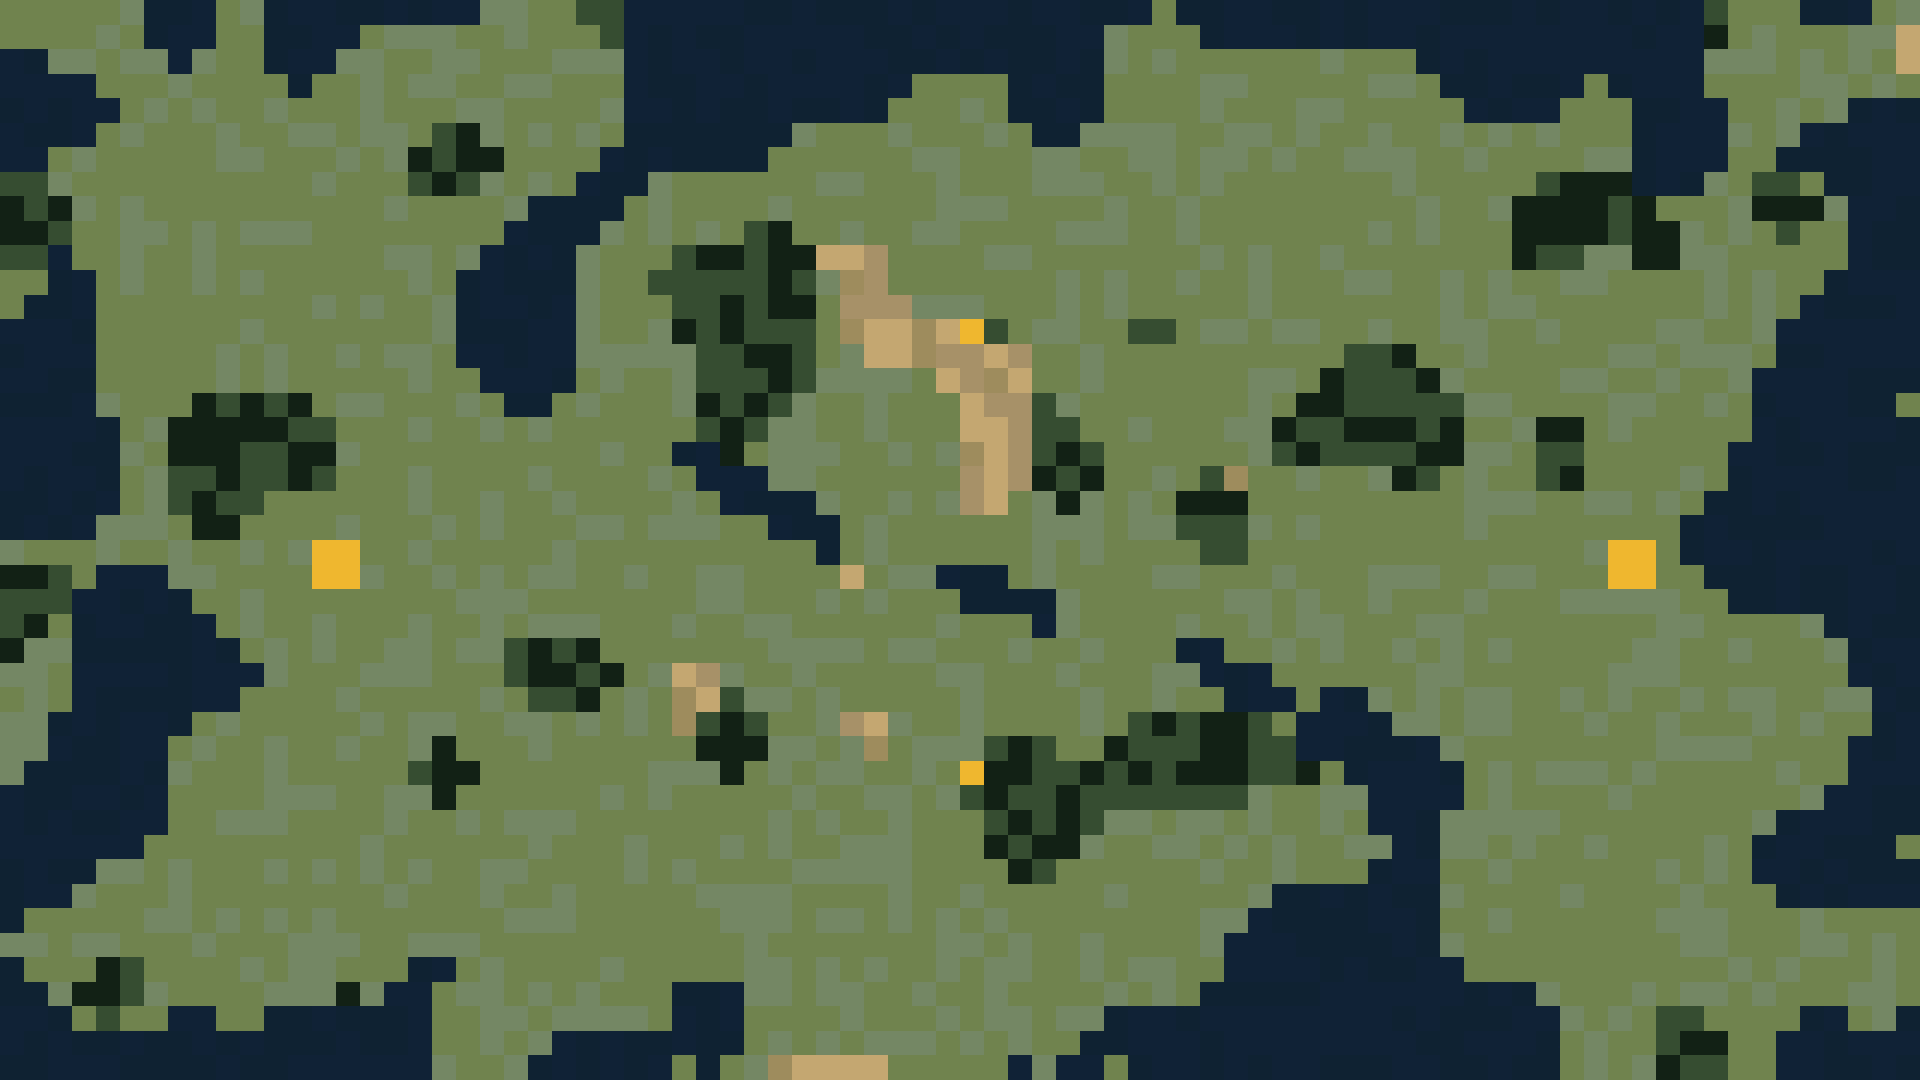
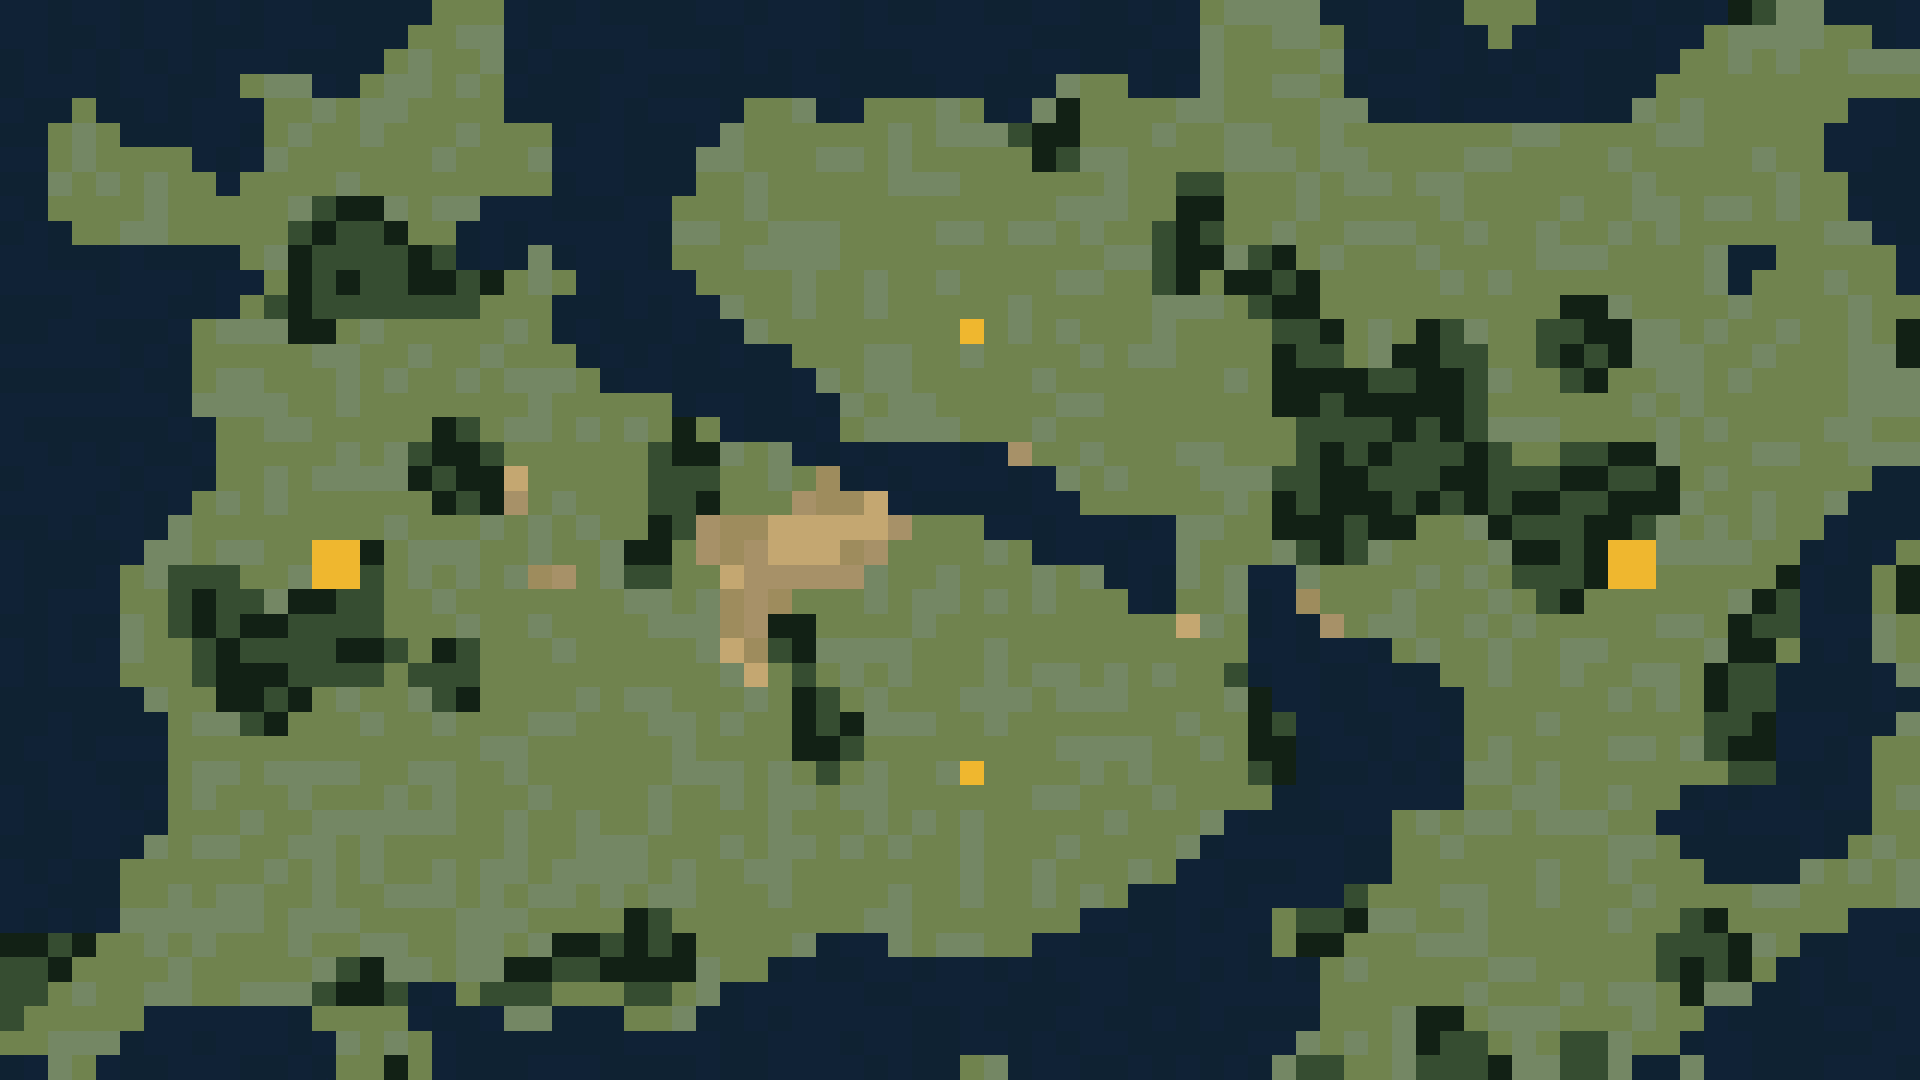
add new deafult map

diff --git a/shared/src/terrainGrid.ts b/shared/src/terrainGrid.ts
@@ -465,50 +465,50 @@ const TERRAIN_CODE_GRID_BY_MAP_ID: Record<string, string> = {
     'gffgfgfffffffffffffffffggggggggggggggggggggggggggggggggggggggggggggggggggggggggg' +
     'ggggghhgghgggghggggggggggggggggggggggggggggggggggggggggggggggggggggggggggggggggg',
   'random-frontier-01':
-    'ggggggwwwggwwwwwwwwwggggffwwwwwwwwwwwwwwwwwwwwwwgwwwwwwwwwwwwwwwwwwwwwwfgggwwwgg' +
-    'ggggggwwwggwwwwggggggggggfwwwwwwwwwwwwwwwwwwwwggggwwwwwwwwwwwwwwwwwwwwwfgggggggh' +
-    'wwgggggwgggwwwggggggggggggwwwwwwwwwwwwwwwwwwwwgggggggggggggwwwwwwwwwwwwggggggggh' +
-    'wwwwggggggggwgggggggggggggwwwwwwwwwwwwggggwwwwggggggggggggggwwwwwwgwwwwggggggggg' +
-    'wwwwwgggggggggggggggggggggwwwwwwwwwwwgggggwwwwgggggggggggggggwwwwgggwwwwgggggwww' +
-    'wwwwggggggggggggggffggggggwwwwwwwggggggggggwwgggggggggggggggggggggggwwwwgggwwwww' +
-    'wwgggggggggggggggffffggggwwwwwwwggggggggggggggggggggggggggggggggggggwwwwggwwwwww' +
-    'ffgggggggggggggggfffggggwwwgggggggggggggggggggggggggggggggggggggffffwwwggffgwwww' +
-    'fffgggggggggggggggggggwwwwgggggggggggggggggggggggggggggggggggggffffffggggfffgwww' +
-    'fffggggggggggggggggggwwwwggggggffggggggggggggggggggggggggggggggfffffffggggfggwww' +
-    'ffwgggggggggggggggggwwwwggggffffffhhhggggggggggggggggggggggggggfffggffgggggggwww' +
-    'ggwwgggggggggggggggwwwwwgggfffffffghhgggggggggggggggggggggggggggggggggggggggwwww' +
-    'gwwwgggggggggggggggwwwwwggggffffffghhhgggggggggggggggggggggggggggggggggggggwwwww' +
-    'wwwwgggggggggggggggwwwwwggggffffffghhhhhhfgggggffgggggggggggggggggggggggggwwwwww' +
-    'wwwwgggggggggggggggwwwwwgggggfffffgghhhhhhhgggggggggggggfffgggggggggggggggwwwwww' +
-    'wwwwggggggggggggggggwwwwgggggfffffggggghhhhggggggggggggfffffgggggggggggggwwwwwww' +
-    'wwwwggggfffffggggggggwwggggggffffggggggghhhfggggggggggfffffffggggggggggggwwwwwwg' +
-    'wwwwwggfffffffgggggggggggggggfffgggggggghhhffggggggggffffffffgggffgggggggwwwwwww' +
-    'wwwwwggfffffffggggggggggggggwwfggggggggghhhfffgggggggffffffffgggffggggggwwwwwwww' +
-    'wwwwwggfffffffgggggggggggggggwwwgggggggghhhfffggggfhggggggffggggffggggggwwwwwwww' +
-    'wwwwwggffffgggggggggggggggggggwwwwgggggghhggfggggfffgggggggggggggggggggwwwwwwwww' +
-    'wwwwggggffggggggggggggggggggggggwwwggggggggggggggfffggggggggggggggggggwwwwwwwwww' +
-    'ggggggggggggghhgggggggggggggggggggwgggggggggggggggffggggggggggggggghhgwwwwwwwwww' +
-    'fffgwwwgggggghhgggggggggggggggggggghgggwwwggggggggggggggggggggggggghhggwwwwwwwww' +
-    'fffwwwwwggggggggggggggggggggggggggggggggwwwwggggggggggggggggggggggggggggwwwwwwww' +
-    'ffgwwwwwwggggggggggggggggggggggggggggggggggwggggggggggggggggggggggggggggggggwwww' +
-    'fggwwwwwwwgggggggggggffffggggggggggggggggggggggggwwggggggggggggggggggggggggggwww' +
-    'gggwwwwwwwwggggggggggfffffgghhggggggggggggggggggggwwwggggggggggggggggggggggggwww' +
-    'gggwwwwwwwggggggggggggfffggghhfggggggggggggggggggggwwwgwwgggggggggggggggggggggww' +
-    'ggwwwwwwgggggggggggggggggggghfffggghhggggggggggffffffgwwwwggggggggggggggggggggww' +
-    'ggwwwwwgggggggggggfggggggggggfffgggghggggfffggffffffffwwwwwwgggggggggggggggggwww' +
-    'gwwwwwwggggggggggfffggggggggggfggggggggghffffffffffffffgwwwwwggggggggggggggggwww' +
-    'wwwwwwwgggggggggggfgggggggggggggggggggggffffffffffffgggggwwwwgggggggggggggggwwww' +
-    'wwwwwwwggggggggggggggggggggggggggggggggggfffffgggggggggggwwwggggggggggggggwwwwww' +
-    'wwwwwwgggggggggggggggggggggggggggggggggggffffgggggggggggggwwgggggggggggggwwwwwwg' +
-    'wwwwggggggggggggggggggggggggggggggggggggggffgggggggggggggwwwgggggggggggggwwwwwww' +
-    'wwwggggggggggggggggggggggggggggggggggggggggggggggggggwwwwwwwggggggggggggggwwwwww' +
-    'wgggggggggggggggggggggggggggggggggggggggggggggggggggwwwwwwwwgggggggggggggggggggg' +
-    'gggggggggggggggggggggggggggggggggggggggggggggggggggwwwwwwwwwgggggggggggggggggggg' +
-    'wgggffgggggggggggwwggggggggggggggggggggggggggggggggwwwwwwwwwwggggggggggggggggggg' +
-    'wwgfffggggggggfgwwggggggggggwwwgggggggggggggggggggwwwwwwwwwwwwwwgggggggggggggggg' +
-    'wwwgfggwwggwwwwwwwggggggggggwwwgggggggggggggggwwwwwwwwwwwwwwwwwwwggggffggggwwggw' +
-    'wwwwwwwwwwwwwwwwwwgggggwwwwwwwwggggggggggggggwwwwwwwwwwwwwwwwwwwwggggfffggwwwwww' +
-    'wwwwwwwwwwwwwwwwwwggggwwwwwwgwgghhhhhgggggwgwwgwwwwwwwwwwwwwwwwwwggggfffggwwwwww',
+    'wwwwwwwwwwwwwwwwwwgggwwwwwwwwwwwwwwwwwwwwwwwwwwwwwgggggwwwwwwgggwwwwwwwwffggwwww' +
+    'wwwwwwwwwwwwwwwwwggggwwwwwwwwwwwwwwwwwwwwwwwwwwwwwggggggwwwwwwgwwwwwwwwgggggggww' +
+    'wwwwwwwwwwwwwwwwgggggwwwwwwwwwwwwwwwwwwwwwwwwwwwwwggggggwwwwwwwwwwwwwwgggggggggg' +
+    'wwwwwwwwwwgggwwggggggwwwwwwwwwwwwwwwwwwwwwwwgggwwwggggggwwwwwwwwwwwwwggggggggggg' +
+    'wwwgwwwwwwwggggggggggwwwwwwwwwwgggwwgggggwwgfggggggggggggwwwwwwwwwwwgggggggggwww' +
+    'wwgggwwwwwwggggggggggggwwwwwwwggggggggggggfffgggggggggggggggggggggggggggggggwwww' +
+    'wwggggggwwwggggggggggggwwwwwwggggggggggggggffgggggggggggggggggggggggggggggggwwww' +
+    'wwgggggggwgggggggggggggwwwwwwggggggggggggggggggggffggggggggggggggggggggggggggwww' +
+    'wwgggggggggggfffggggwwwwwwwwgggggggggggggggggggggffggggggggggggggggggggggggggwww' +
+    'wwwgggggggggfffffggwwwwwwwwwggggggggggggggggggggfffgggggggggggggggggggggggggggww' +
+    'wwwwwwwwwwggfffffffwwwgwwwwwggggggggggggggggggggfffgffggggggggggggggggggwwgggggw' +
+    'wwwwwwwwwwwgfffffffffgggwwwwwgggggggggggggggggggffgffffgggggggggggggggggwggggggw' +
+    'wwwwwwwwwwgfffffffffgggwwwwwwwggggggggggggggggggggggfffggggggggggffggggggggggggg' +
+    'wwwwwwwwggggffgggggggggwwwwwwwwggggggggghggggggggggggfffgggffgggffffgggggggggggf' +
+    'wwwwwwwwggggggggggggggggwwwwwwwwwggggggggggggggggggggfffggffffggffffgggggggggggf' +
+    'wwwwwwwwgggggggggggggggggwwwwwwwwwgggggggggggggggggggfffffffffgggffggggggggggggg' +
+    'wwwwwwwwggggggggggggggggggggwwwwwwwggggggggggggggggggfffffffffgggggggggggggggggg' +
+    'wwwwwwwwwgggggggggffggggggggfgwwwwwgggggggggggggggggggffffffffgggggggggggggggggg' +
+    'wwwwwwwwwggggggggffffggggggfffgggwwwwwwwwwhgggggggggggfffffffffggffffggggggggggg' +
+    'wwwwwwwwwggggggggffffhgggggfffgggghwwwwwwwwwgggggggggfffffffffffffffffggggggggww' +
+    'wwwwwwwwggggggggggfffhgggggfffggghhhhwwwwwwwwggggggggfffffffffffffffffgggggggwww' +
+    'wwwwwwwggggggggggggggggggggffhhhhhhhhhgggwwwwwwwwggggffffffgggfffffffgggggggwwww' +
+    'wwwwwwggggggghhfggggggggggffghhhhhhhhggggggwwwwwwgggggfffggggggffffhhggggggwwwwg' +
+    'wwwwwggfffggghhfgggggghhggffgghhhhhhggggggggggwwwgggwwgggggggggffffhhgggggfwwwgf' +
+    'wwwwwggffffgffffgggggggggggggghhhggggggggggggggwwgggwwhgggggggggffgggggggffwwwgf' +
+    'wwwwwggfffffffffgggggggggggggghhffggggggggggggggghggwwwhggggggggggggggggfffwwwgg' +
+    'wwwwwgggfffffffffgffgggggggggghhffggggggggggggggggggwwwwwwggggggggggggggffgwwwgg' +
+    'wwwwwgggffffffffgfffggggggggggghgfgggggggggggggggggfwwwwwwwwgggggggggggfffwwwwwg' +
+    'wwwwwwgggffffgggggffgggggggggggggffgggggggggggggggggfwwwwwwwwggggggggggfffwwwwww' +
+    'wwwwwwwgggffgggggggggggggggggggggfffggggggggggggggggffwwwwwwwggggggggggfffwwwwwg' +
+    'wwwwwwwggggggggggggggggggggggggggfffggggggggggggggggffwwwwwwwggggggggggfffwwwwgg' +
+    'wwwwwwwgggggggggggggggggggggggggggfggggghgggggggggggffwwwwwwwgggggggggggffwwwwgg' +
+    'wwwwwwwggggggggggggggggggggggggggggggggggggggggggggggwwwwwwwwgggggggggwwwwwwwwgg' +
+    'wwwwwwwggggggggggggggggggggggggggggggggggggggggggggwwwwwwwgggggggggggwwwwwwwwwgg' +
+    'wwwwwwggggggggggggggggggggggggggggggggggggggggggggwwwwwwwwggggggggggggwwwwwwwggg' +
+    'wwwwwggggggggggggggggggggggggggggggggggggggggggggwwwwwwwwwgggggggggggggwwwwggggg' +
+    'wwwwwggggggggggggggggggggggggggggggggggggggggggwwwwwwwwwfggggggggggggggggggggggg' +
+    'wwwwwgggggggggggggggggggggffgggggggggggggggggwwwwwwwwgfffgggggggggggggffgggggwww' +
+    'ffffgggggggggggggggggggffffffgggggwwwggggggwwwwwwwwwwgffgggggggggggggffffggwwwww' +
+    'fffgggggggggggffgggggffffffffgggwwwwwwwwwwwwwwwwwwwwwwwggggggggggggggffffgwwwwww' +
+    'ffgggggggggggffffwwgfffgggffggwwwwwwwwwwwwwwwwwwwwwwwwwgggggggggggggggfggwwwwwww' +
+    'fgggggwwwwwwwggggwwwwggwwwgggwwwwwwwwwwwwwwwwwwwwwwwwwwggggffggggggggggwwwwwwwww' +
+    'gggggwwwwwwwwwggggwwwwwwwwwwwwwwwwwwwwwwwwwwwwwwwwwwwwgggggfffgggffgggwwwwwwwwww' +
+    'wwggwwwwwwwwwwggfgwwwwwwwwwwwwwwwwwwwwwwggwwwwwwwwwwwgffgggffffggffgwwgwwwwwwwww',
 };
 
 const TERRAIN_TYPE_BY_CODE: Record<string, TerrainType> = {
